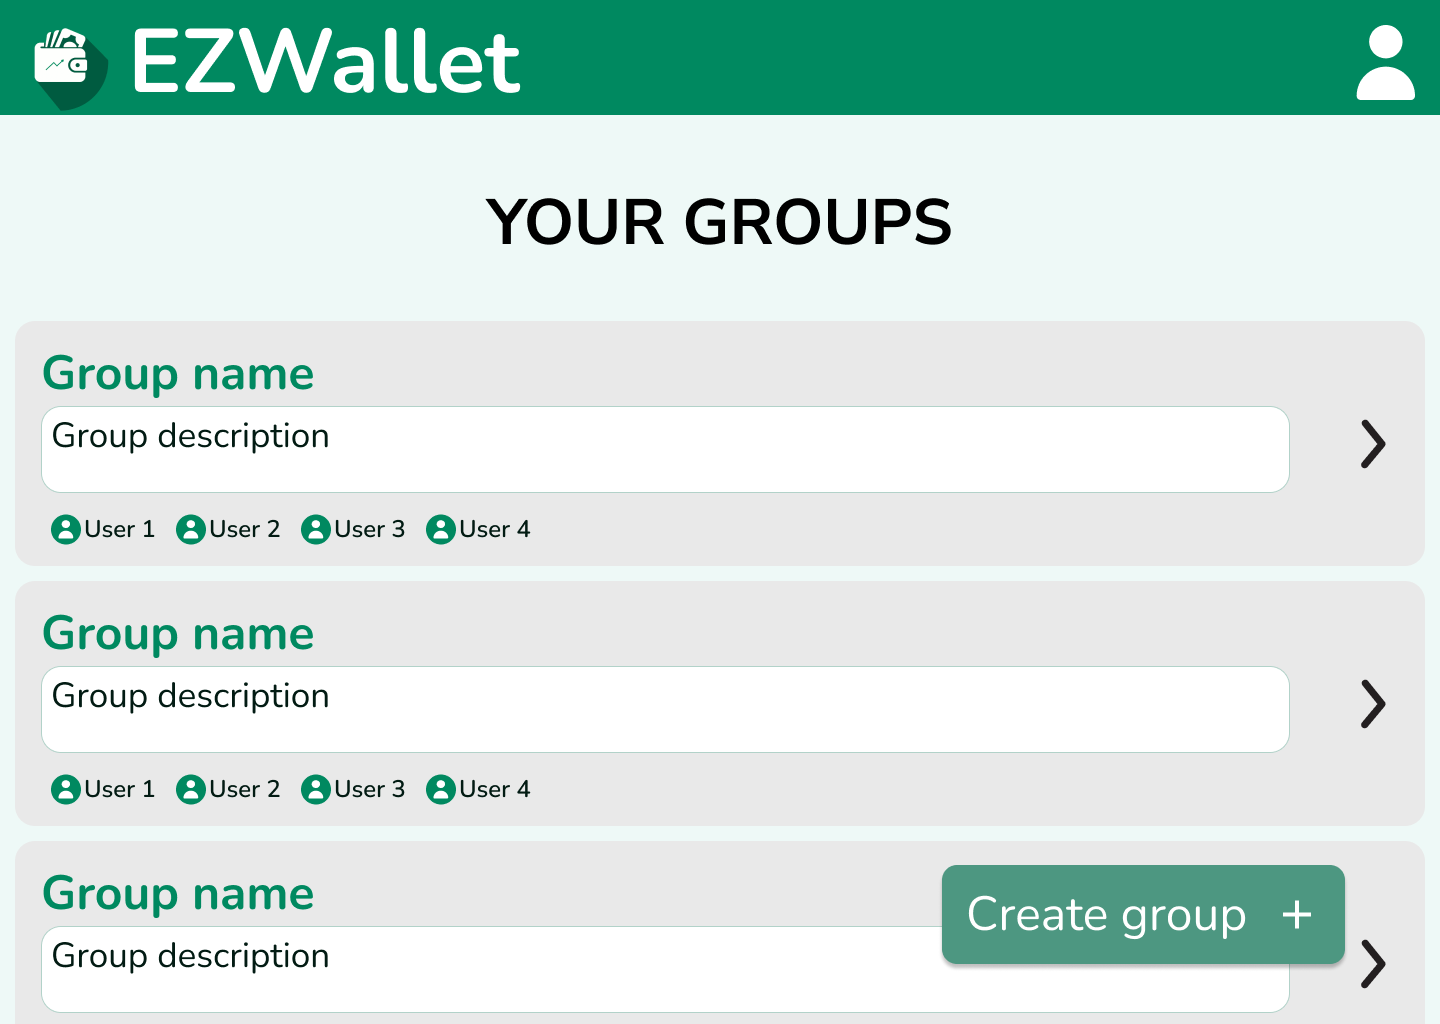
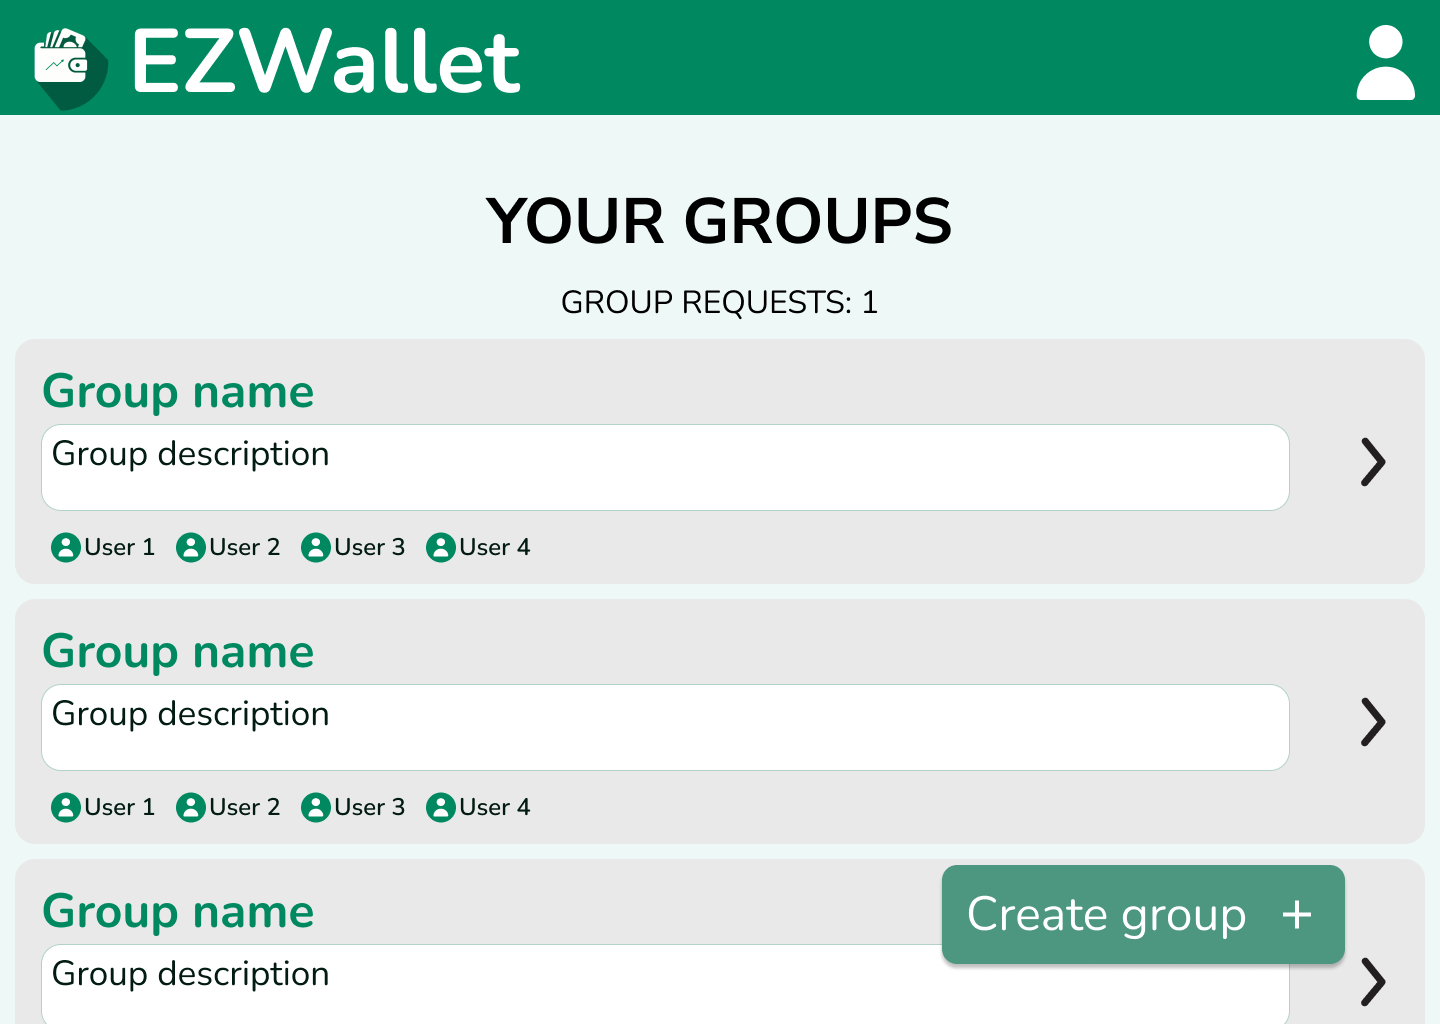
docs: updated GUI v2

diff --git a/GUIPrototypeV2.md b/GUIPrototypeV2.md
@@ -7,8 +7,6 @@ Date:
 Version:
 
 # Contents
-- [Graphical User Interface Prototype  - FUTURE](#graphical-user-interface-prototype----future)
-- [Contents](#contents)
 - [Website home page](#website-home-page)
 - [Manage user](#manage-user)
   - [Registration (UC4)](#registration-uc4)
@@ -34,12 +32,17 @@ Version:
   - [Show group info (UC18)](#show-group-info-uc18)
   - [Manage users rights (UC14)](#manage-users-rights)
   - [Delete member from a group (UC17)](#delete-member-from-a-group-uc17)
+  - [Manage invitations to groups (UC13)](#manage-invitations-to-groups-uc13)
 - [Manage ads](#manage-ads)
-  - [Show ads (UC13)](#show-ads-uc13)
-  - [Interact with ad (UC23)](#interact-with-ad-uc23)
+  - [Show ads (UC24)](#show-ads-uc13)
 - [Manage application](#manage-application)
   - [Manage accounts (UC21)](#manage-accounts-uc21)
   - [Application usage analytics (UC22)](#application-usage-analytics-uc22)
+- [Manage reminders](#manage-reminders)
+  - [Show reminders (UC28)](#show-reminders-uc28)
+  - [Add reminder (UC25)](#add-reminder-uc25)
+  - [Delete reminder (UC26)](#delete-reminder-uc26)
+  - [Update reminder (UC27)](#update-reminder-uc27)
 
 # Website home page
 ![home_page](./img/Home%20page.png)
@@ -70,6 +73,10 @@ Version:
 
 ## Personal analytics (UC11)
 ![personal_analytics](./img/Personal%20analytics.png)
+*Scenario 11.1: nominal case*
+
+![Filter_analytics](./img/Transaction%20filters.png)
+*Scenario 11.2: variant filter transactions*
 
 # Manage transactions
 ## Show transactions (UC3)
@@ -81,6 +88,9 @@ Version:
 
 ![labelled_transaction](./img/Labelled%20transactions%20V2.png)
 *Scenario 3.3: variant labelled transactions*
+
+![filter_transaction](./img/Transaction%20filters.png)
+*Scenario 3.4: variant filter transactions*
 
 ## Add transaction (UC1)
 ![add_transaction](./img/Add%20transaction%20v2.png)
@@ -104,10 +114,10 @@ Version:
 *Scenario 8.1: nominal case*
 
 ![categories_variant](./img/Show%20categories%20v2%20(variant).png)
-*Scenario 8.1: overbudget variant*
+*Scenario 8.2: overbudget variant*
 
 ![categories_exception](./img/Show%20categories%20v2%20(exception).png)
-*Scenario 8.2: exception*
+*Scenario 8.3: exception*
 
 ## Add category (UC7)
 ![add_category](./img/Add%20category%20v2.png)
@@ -125,7 +135,7 @@ Version:
 
 ## Show groups (UC24)
 ![show_groups](img/Show%20groups.png)
-*Scenario 24.1: nominal*
+*Scenario 24.1: nominal case*
 
 ![show_groups](img/Show%20groups%20(exception).png)
 *Scenario 24.2: exception*
@@ -144,13 +154,14 @@ Version:
 
 ## Delete member from a group (UC17)
 ![delete_member_from_a_group](./img/Group%20users%20options.png)
+
+## Manage invitations to groups (UC13)
+![group_invitation](./img/Group%20request.png)
+
 # Manage ads
 
 ## Show ads (UC13)
 ![show_ads](./img/Show%20transactions%20V2%20(nominal).png)
-
-## Interact with ads (UC23)
-![interact_with_ads]()
 
 # Manage application
 ## Manage accounts (UC21)
@@ -162,7 +173,7 @@ Version:
 # Manage reminders
 ## Show reminders (UC28)
 ![show_reminders](./img/Show%20reminders.png)
-*Scenario 28.1: nominal*
+*Scenario 28.1: nominal case*
 
 ![show_reminders](./img/Show%20reminders%20exception.png)
 *Scenario 28.2: exception*
